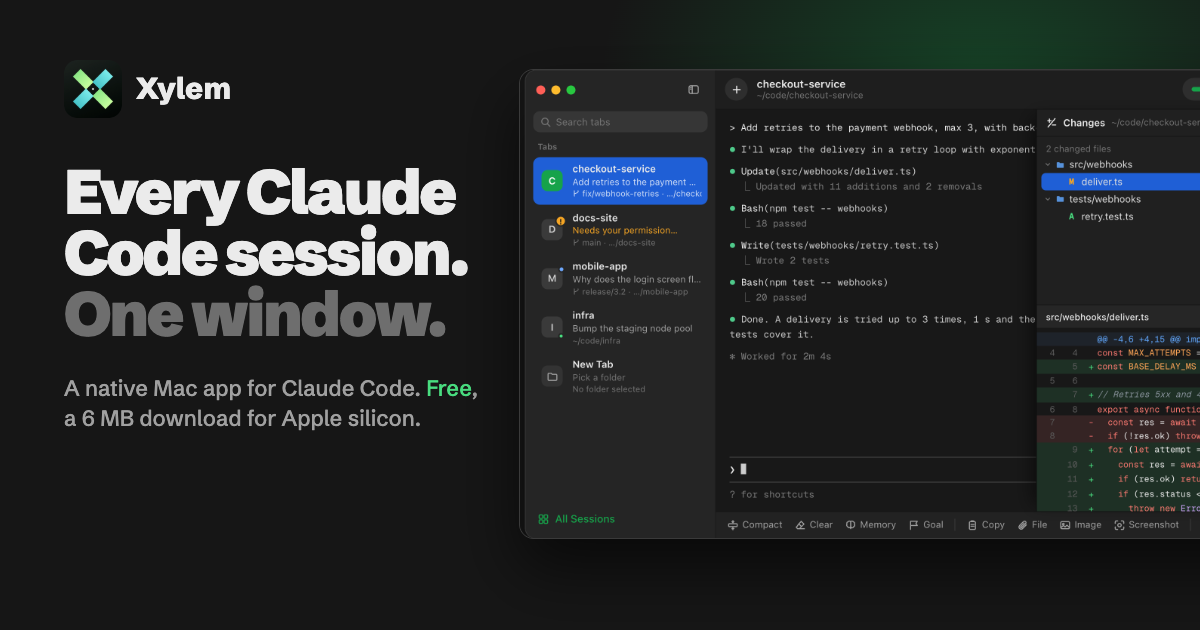
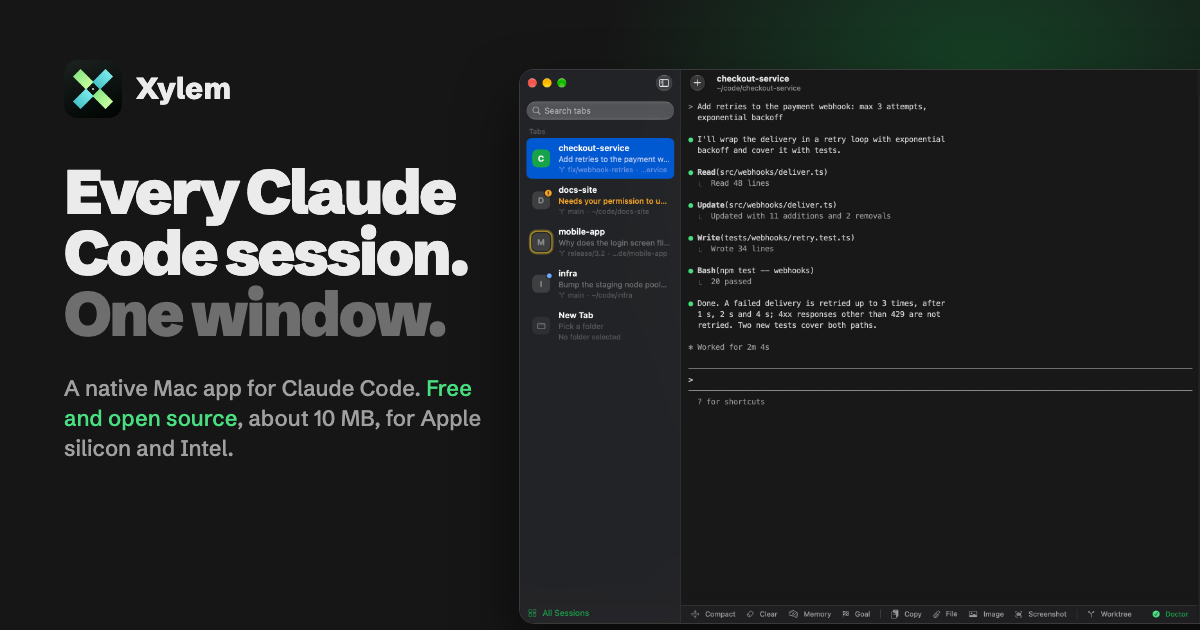
docs: README screenshot, og-image with the current size and license

diff --git a/docs/index.html b/docs/index.html
@@ -21,12 +21,12 @@
 <meta property="og:image:type" content="image/png">
 <meta property="og:image:width" content="1200">
 <meta property="og:image:height" content="630">
-<meta property="og:image:alt" content="Xylem: every Claude Code session, one window. The app with tabs on the left, a Claude session in the middle and the Changes drawer with a diff on the right.">
+<meta property="og:image:alt" content="Xylem: every Claude Code session, one window. The app with its tabs on the left, each showing what Claude is doing, and a Claude Code session in the middle.">
 <meta name="twitter:card" content="summary_large_image">
 <meta name="twitter:title" content="Xylem - every Claude Code session in one Mac window">
 <meta name="twitter:description" content="A free, native Mac app for Claude Code: run every session in its own tab, see which one needs you, and track usage, costs and your Claude setup.">
 <meta name="twitter:image" content="https://xylem.t1nkl.dev/assets/og-image.png">
-<meta name="twitter:image:alt" content="Xylem: every Claude Code session, one window. The app with tabs on the left, a Claude session in the middle and the Changes drawer with a diff on the right.">
+<meta name="twitter:image:alt" content="Xylem: every Claude Code session, one window. The app with its tabs on the left, each showing what Claude is doing, and a Claude Code session in the middle.">
 
 <link rel="icon" type="image/png" sizes="32x32" href="assets/favicon-32.png">
 <link rel="icon" type="image/png" sizes="16x16" href="assets/favicon-16.png">

diff --git a/README.md b/README.md
@@ -8,6 +8,8 @@ Xylem doesn't replace or change Claude Code. Each tab runs the real `claude`
 CLI in a real terminal; Xylem adds what a terminal window lacks when you have
 several sessions going for days.
 
+![Xylem: Claude Code sessions in tabs, one finished, one waiting for permission, one working and one with news; the right panel lists the project's skills, agents, MCP servers and permissions](docs/assets/screenshot.png)
+
 **Download:** https://xylem.t1nkl.dev/ (or the [latest release](https://github.com/t1nkl/xylem/releases/latest)).
 macOS 15 or later, Apple silicon or Intel. Signed and notarized; it updates
 itself (new versions download in the background and install when you quit).
